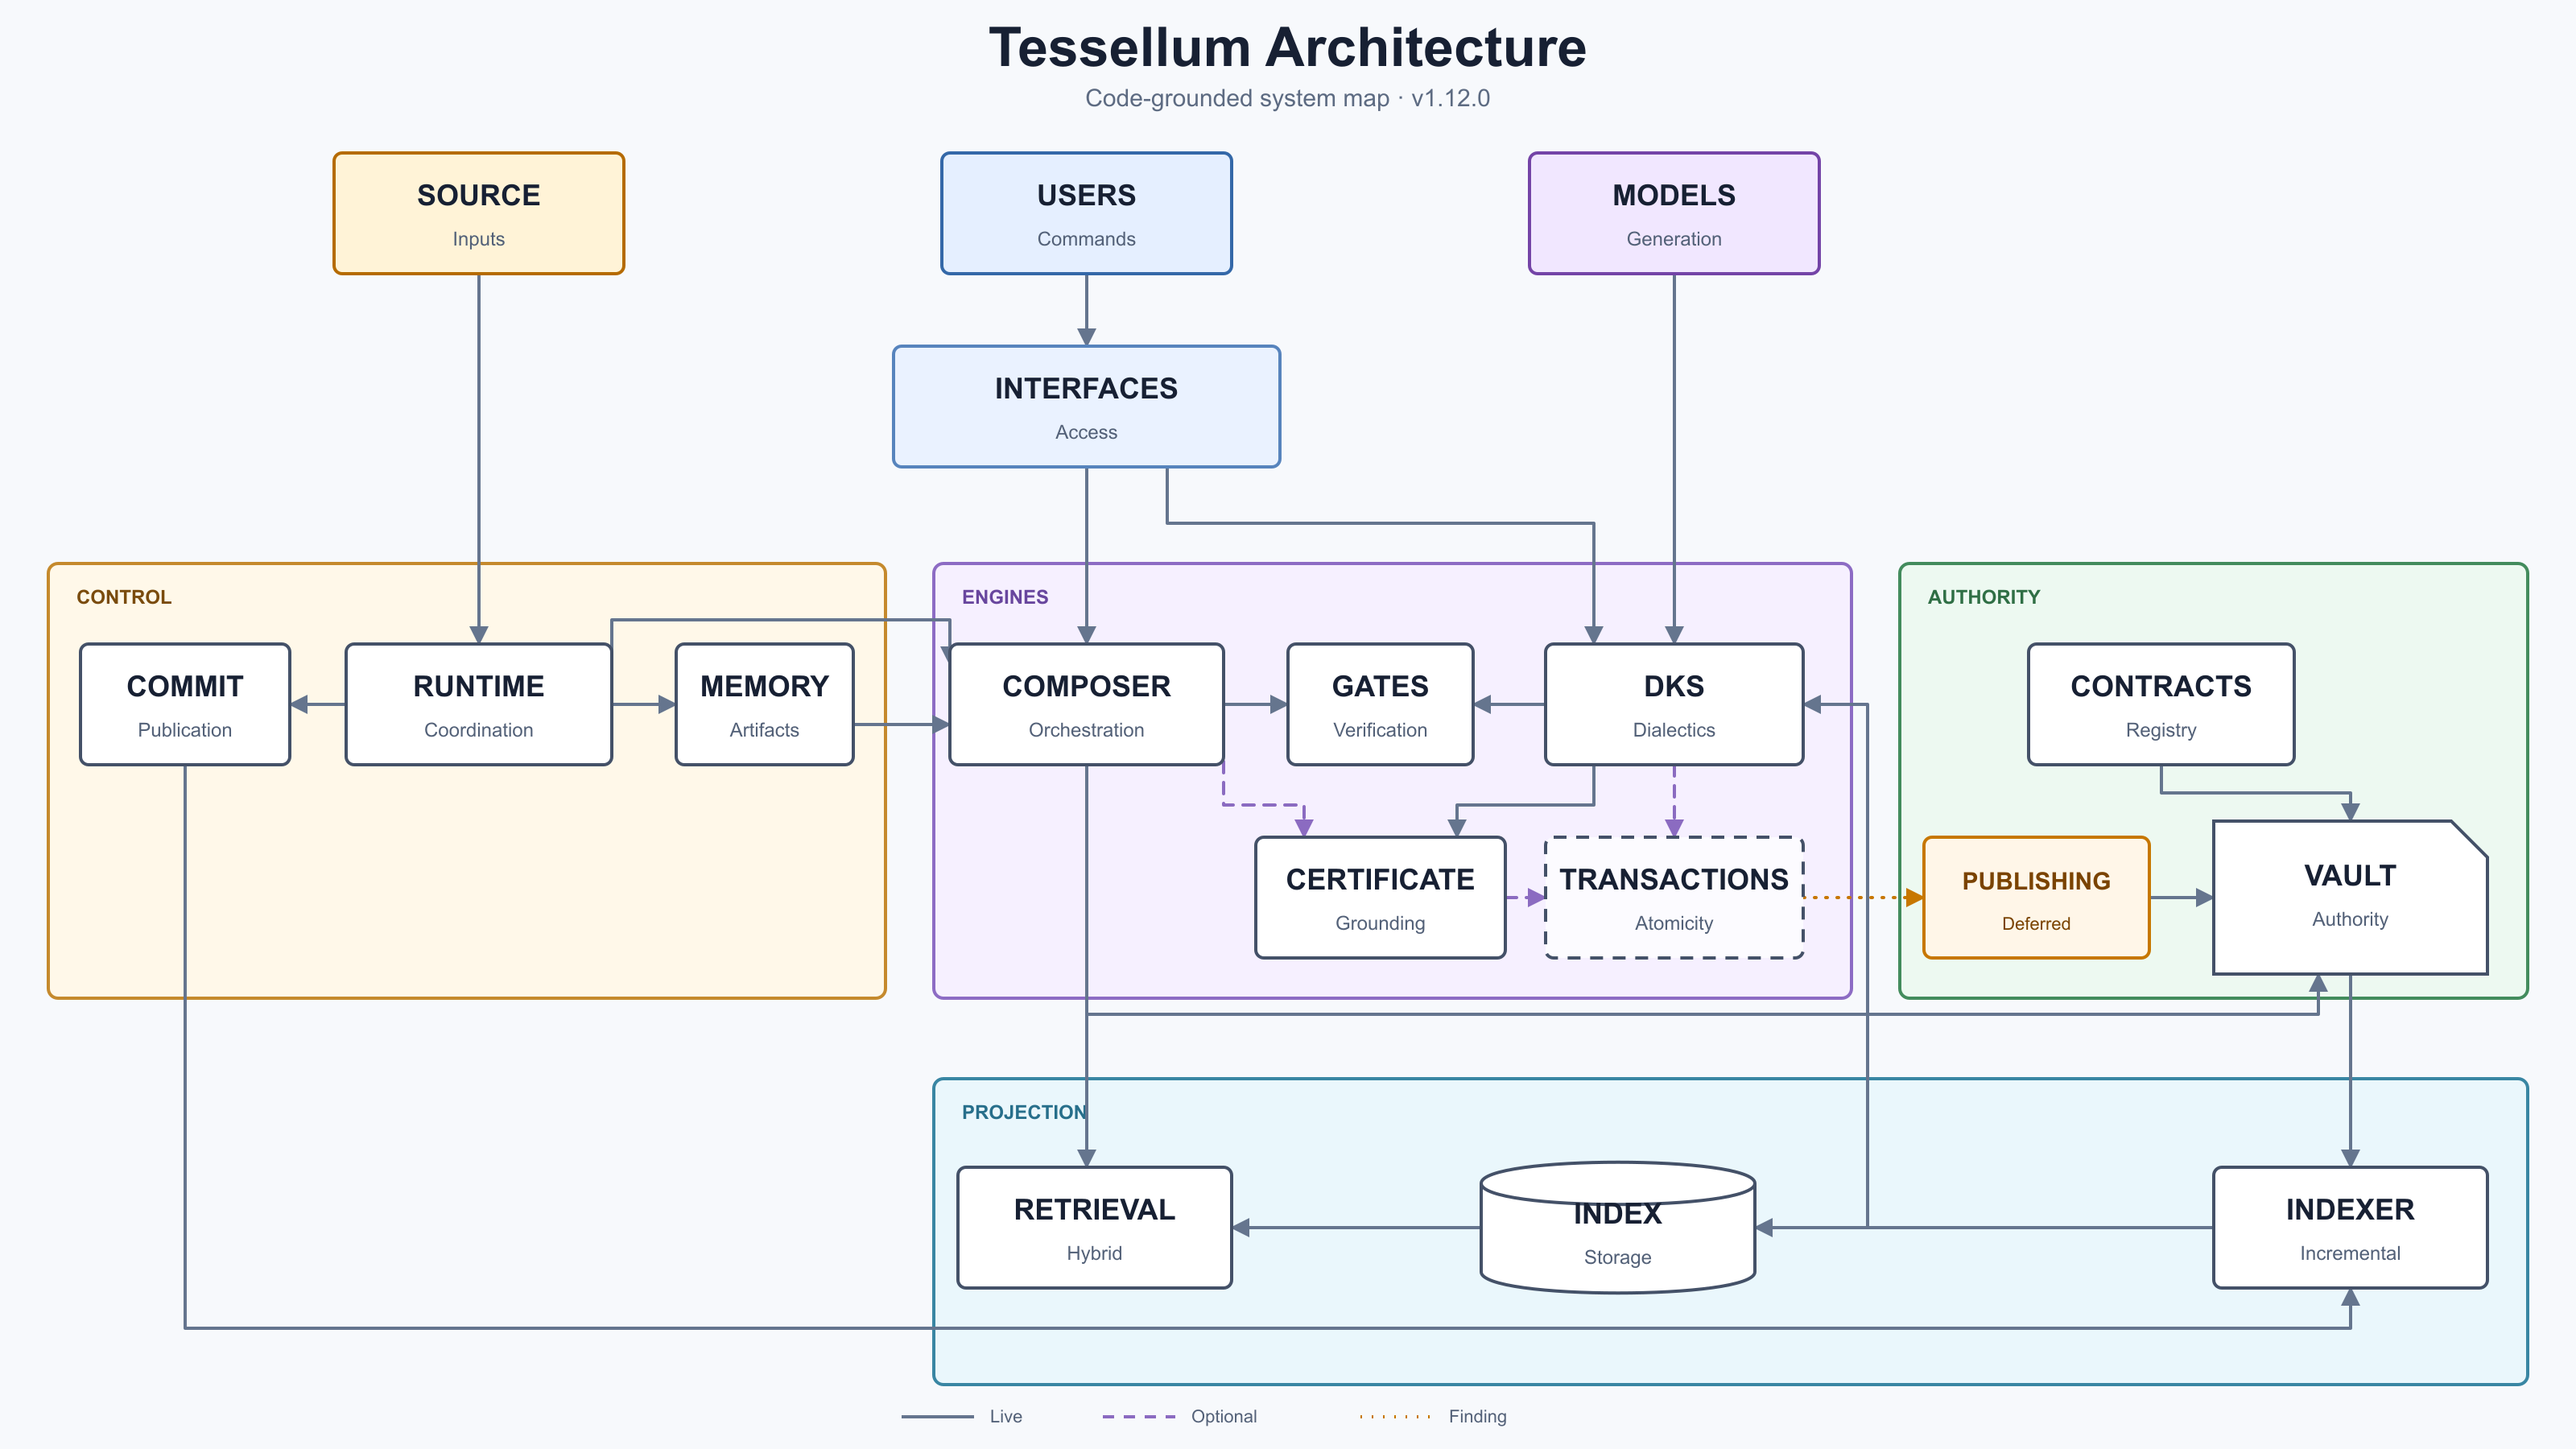
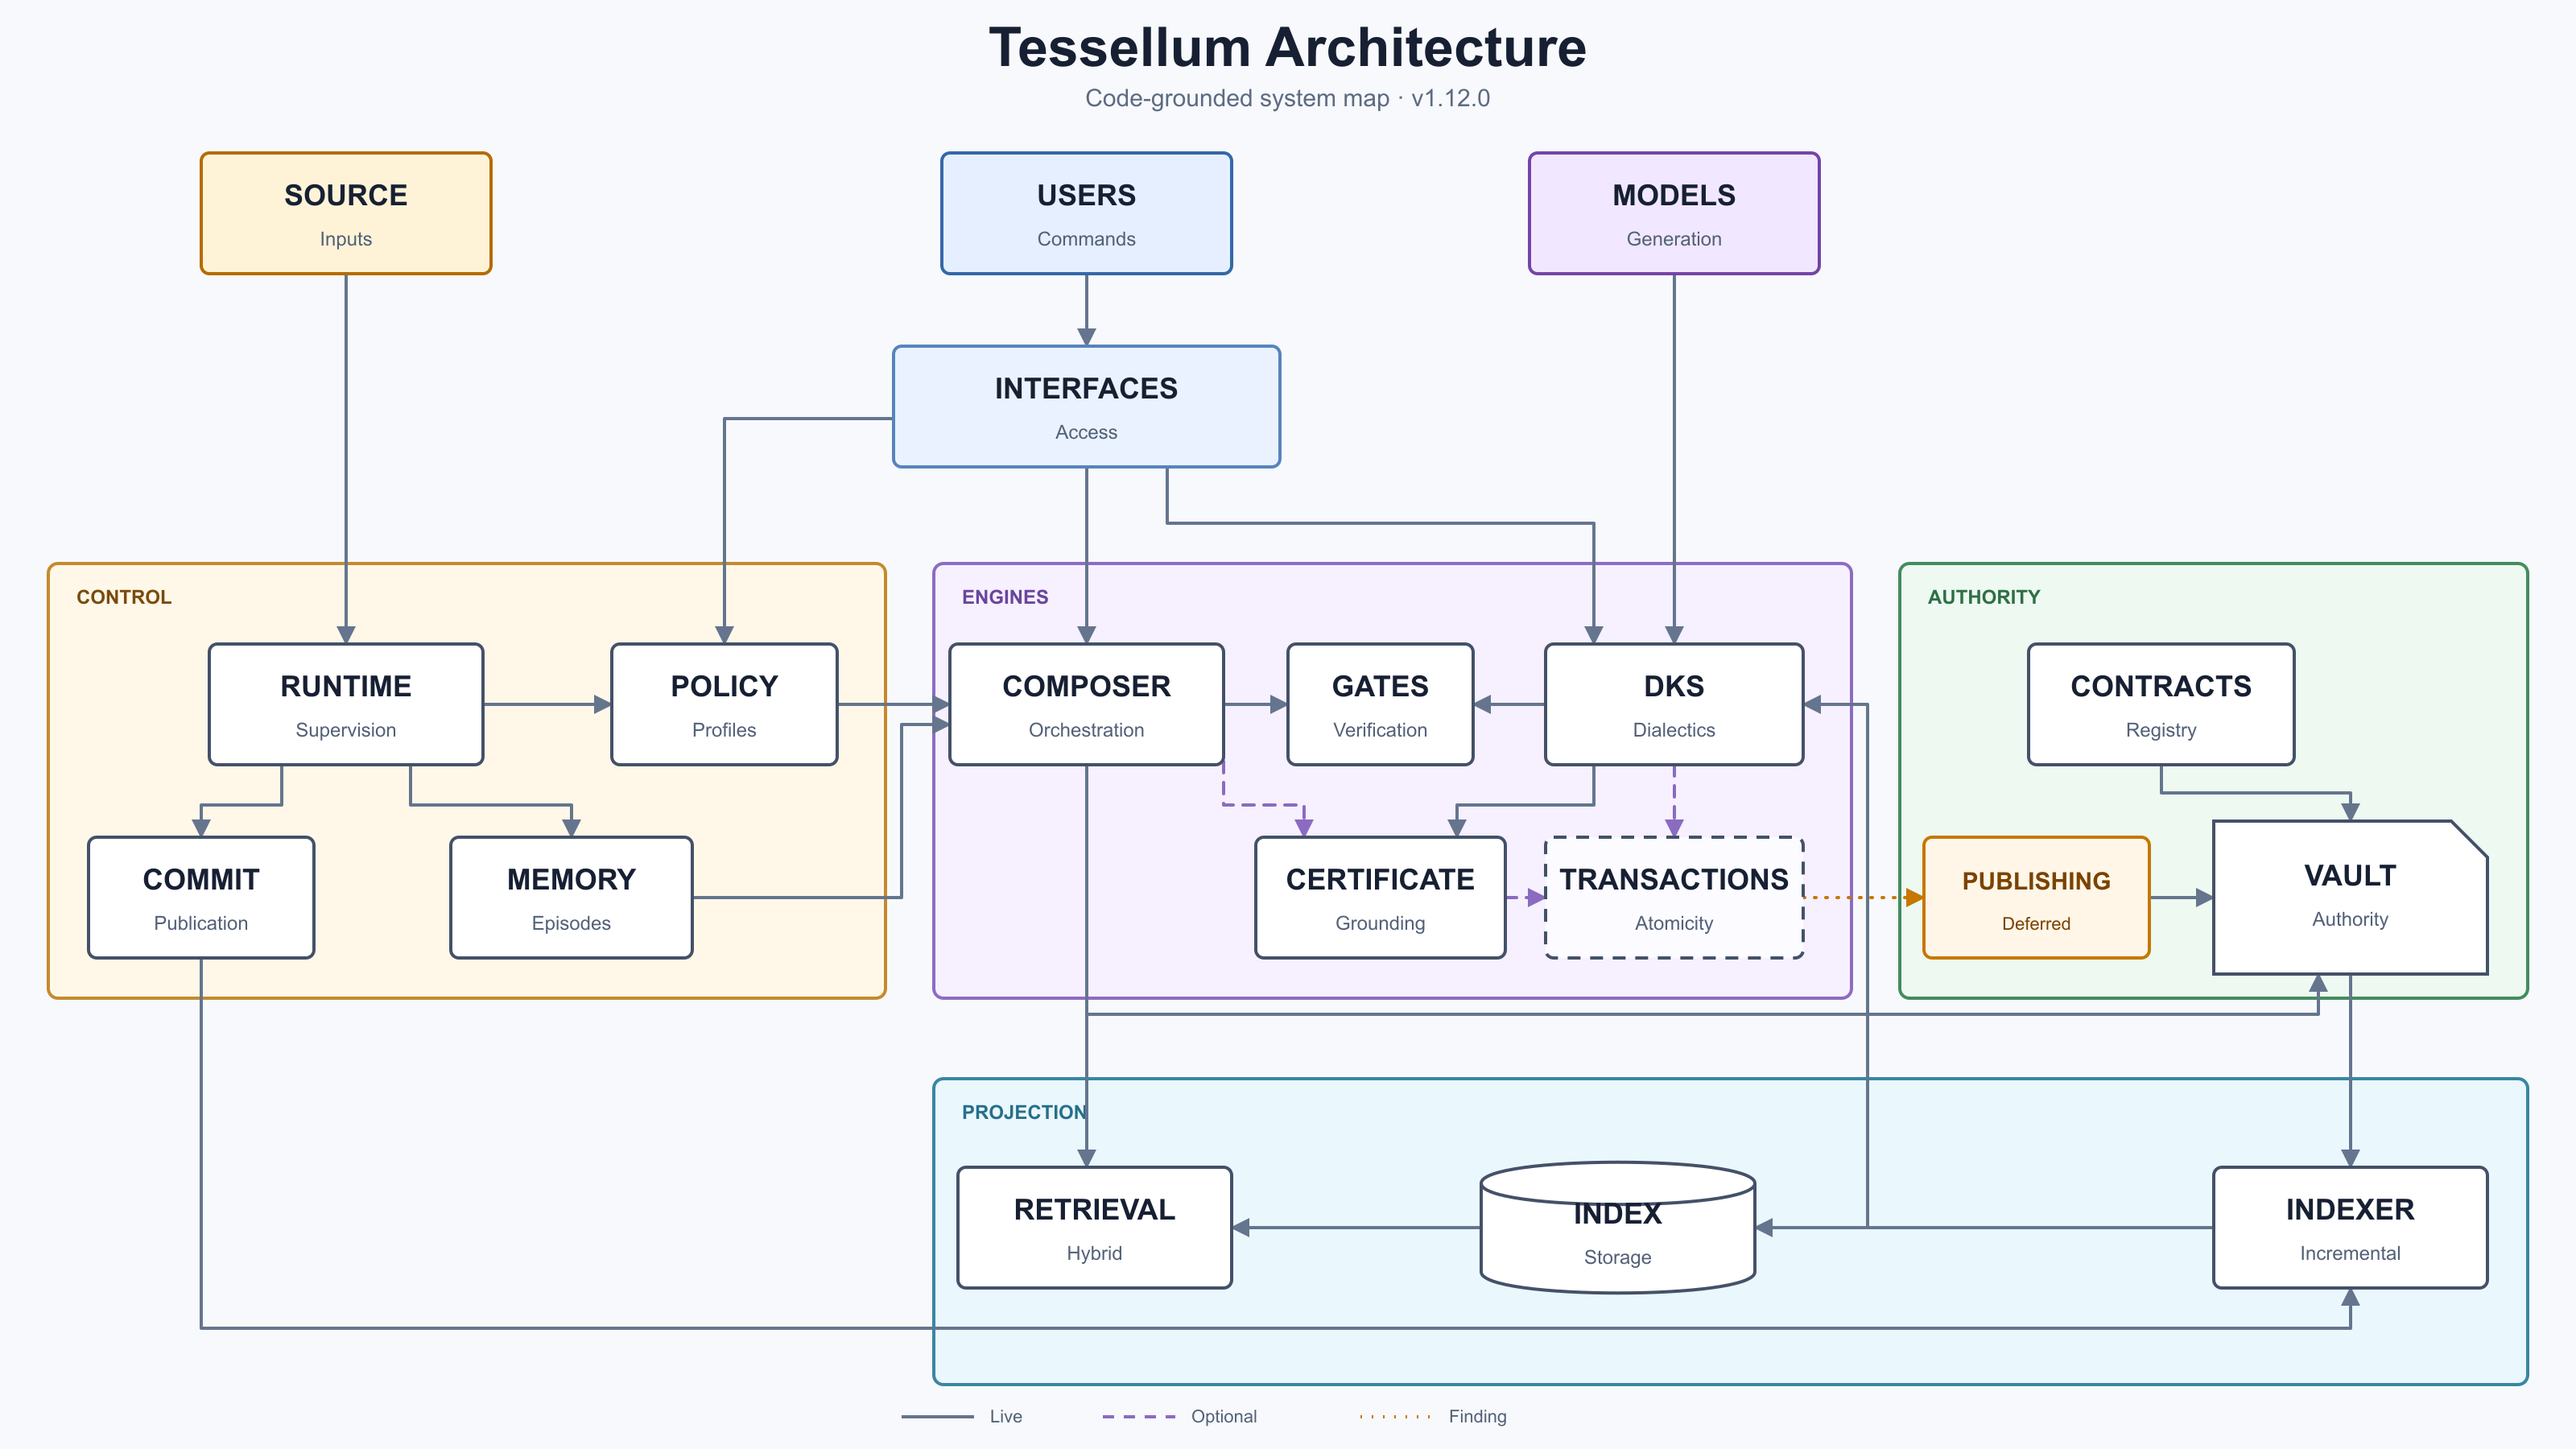
docs: update architecture for runtime control plane

diff --git a/README.md b/README.md
@@ -111,7 +111,7 @@ Tessellum rests on four foundations — remove any one and the system stops work
 
 ## Architecture
 
-![Tessellum 1.12.0 architecture showing durable Composer artifacts, deterministic verification gates, runtime orchestration, semantic certification, incremental indexing, hybrid retrieval, and vault authority](docs/assets/tessellum_architecture.png)
+![Tessellum 1.12.0 architecture showing policy-driven runtime supervision, episodic Composer memory, deterministic verification gates, semantic certification, incremental indexing, hybrid retrieval, and vault authority](docs/assets/tessellum_architecture.png)
 
 *Source-level view of Tessellum's write and retrieval paths. Solid arrows are active runtime paths; dashed arrows identify opt-in primitives or integrations that are implemented but not wired into the automatic runtime end to end.*
 
